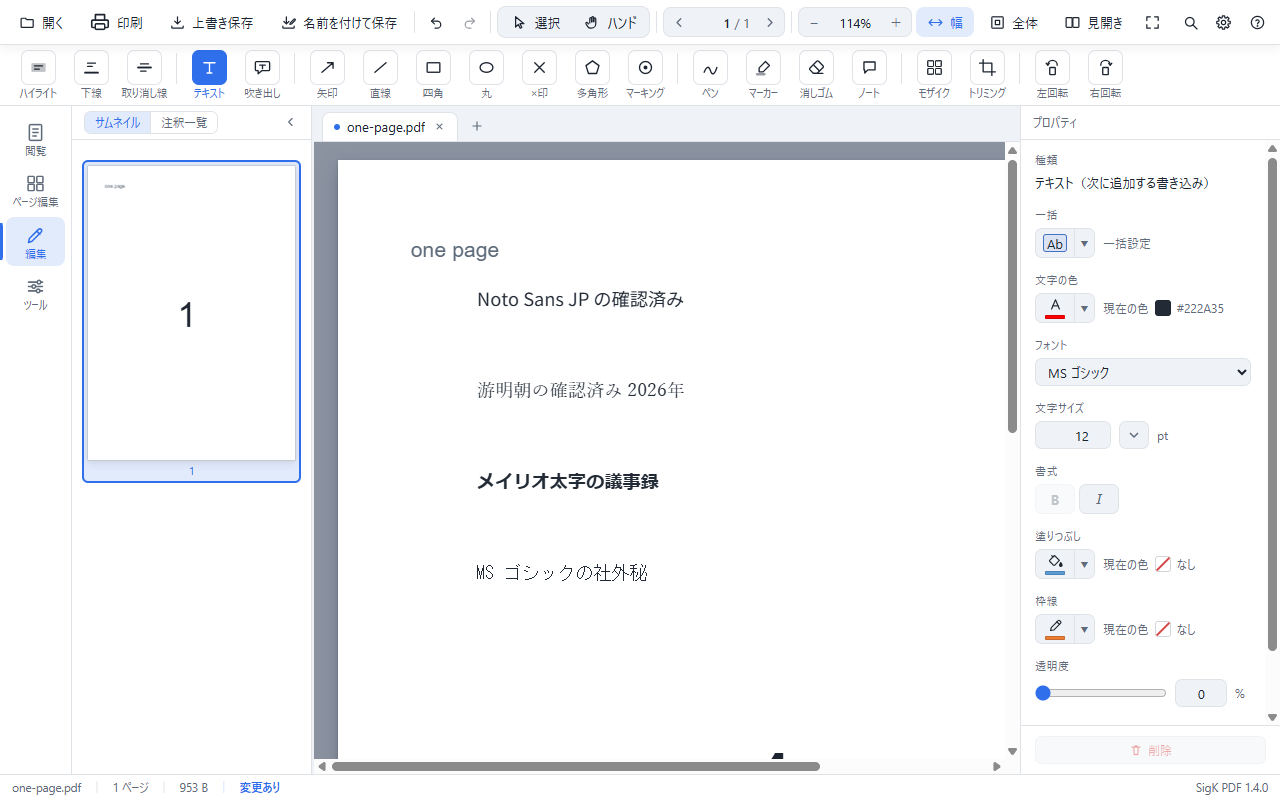
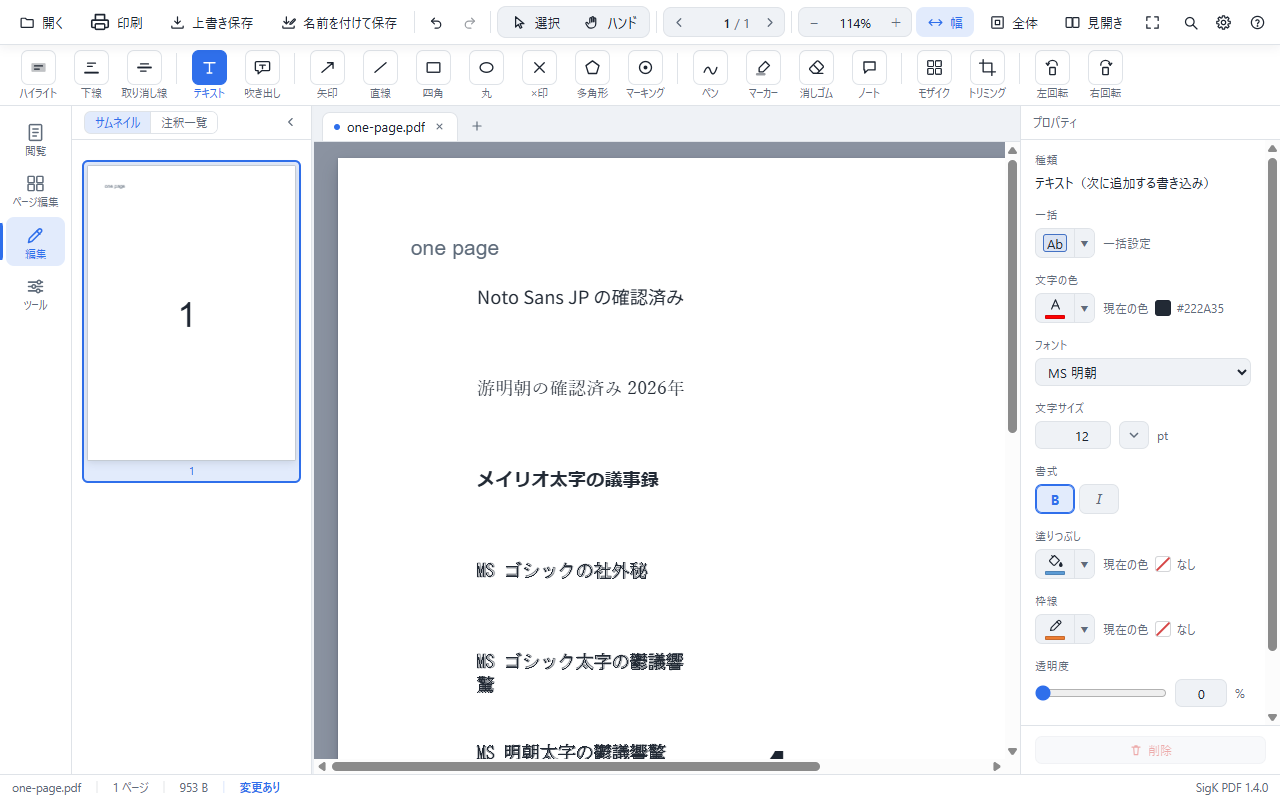
spec-7-11 に質問 FT2・FT3 の回答と擬似太字の線の太さ（字の大きさの 30 分の 1）と理由を書き、画面写真を撮り直す

diff --git a/docs/spec-7-11-view-font.md b/docs/spec-7-11-view-font.md
@@ -48,7 +48,7 @@
 
 質問の下書き（選択肢・推奨案・調べた結果）は `~/.claude/plans/v150-questions-b.md`。
 
-状態（2026-11-27）: ZM3・FS1・RG1・RG2・RG3・FT1 は回答をもらった（確定事項）。FS2 は、統括役が質問せず、FS1 の回答（「「見開き」ボタンの右側にボタンを作る」）で決まったものとして扱った。FT2・FT3 は FT1 の回答の後に作り、回答を待っている（推奨案で仮に実装した。確定事項T5・T6）。
+状態（2026-11-27）: 全問の回答をもらった（確定事項）。FS2 は、統括役が質問せず、FS1 の回答（「「見開き」ボタンの右側にボタンを作る」）で決まったものとして扱った。FT2・FT3 は FT1 の回答の後に作った。
 
 ## 確定事項
 
@@ -96,17 +96,24 @@
 - R5. ページを動かした後に、動かしたページを選んだままにする時（`stripSelection.set`）は、入力しない（ユーザーが選択した時だけ。`stripSelection.onPick`）。
 - R6. 開けなかった帯・名前の無い帯・画像の帯・パスワード付きの帯では何もしない（ツールの対象にできないので、ツールの欄が理由を表示する）。
 
-### 質問 FT1（2026-11-27）と、仮に実装した FT2・FT3
+### 質問 FT1・FT2・FT3（2026-11-27）
 
-ユーザーの回答（統括役を通して。選んだ選択肢名のまま）: FT1「案B Windows フォント使用（推奨）」
+ユーザーの回答（統括役を通して。選んだ選択肢名のまま）: FT1「案B Windows フォント使用（推奨）」、FT2「案A Noto Sans JP 維持（推奨）」、FT3「案B 擬似太字」
 
 - T1. 一覧に並べるフォントは、Noto Sans JP（同梱）と、Windows に入っている游ゴシック・游明朝・メイリオ・MS ゴシック・MS 明朝（一覧の順）。このパソコンに入っていて、埋め込みの決まり（OpenType の fsType）が「編集できる文書にサブセットで埋め込んでよい」フォントだけを並べる（メインの `font-catalog.js`。初めて聞かれた時に 1 回だけ調べる）。
 - T2. プロパティパネルの「文字の色」の下に「フォント」の行（一覧）を追加する。テキスト・吹き出しの書き込みツールと、選択中のテキストで表示する。選んだフォントは、選択中のテキストに当て、次に置くテキスト・吹き出しの値として設定に保存する（太字・文字の色と同じ。Claude の案。質問 FT2 の図の経緯の表に書いた）。
 - T3. 保存は、書体（フォント×標準・太字）ごとにサブセットで埋め込む。.ttc は PostScript 名でフォントを選ぶ。/DA のフォント名（自分で付けたテキストの印）は、Noto Sans JP が今までどおり SigKJP、ほかは SigKYG・SigKYM・SigKMR・SigKMG・SigKMM。/DS のフォント名は Noto Sans JP・Yu Gothic・Yu Mincho・Meiryo・MS Gothic・MS Mincho。
 - T4. ほかのパソコンで付けたテキストのフォントが、このパソコンに無い時は、Noto Sans JP で描き、修正すると Noto Sans JP で保存する（質問 FT1 の案B の説明）。修正しなければ、保存してある外観のまま。
-- T5.（質問 FT2 の推奨案A で仮に実装。回答待ち）初めて使う時のフォントは Noto Sans JP。既定の Noto Sans JP は、書き込みにも設定にも font の欄を持たない（今までの形を変えない）。
-- T6.（質問 FT3 の推奨案A で仮に実装。回答待ち）太字の書体が無い MS ゴシック・MS 明朝では［B］を押せない。選ぶと太字を外し、次に付ける値も太字なしにする。保存の側も、太字の書体が無いフォントの太字は標準の書体で描く。
-- T7. 使い方画面のテキストの節に、フォントの説明を追加した。
+- T5.（FT2）初めて使う時のフォントは Noto Sans JP。既定の Noto Sans JP は、書き込みにも設定にも font の欄を持たない（今までの形を変えない）。
+- T6.（FT3）太字の書体が無い MS ゴシック・MS 明朝でも［B］を押せる。太字は、標準の書体の文字の輪郭に線を追加して太く見せる（擬似太字）。フォントを変えても太字は外さない。統括役の依頼: 図の案B のとおり、保存した PDF も同じ描き方で、画面・印刷・保存で同じ太さに見えること。
+- T7. 擬似太字の線（Claude が決めたこと。統括役の依頼「字の大きさの 30 分の 1 の太さの線を文字の輪郭に追加する方法を基準にする」）:
+  - 太さは字の大きさの **30 分の 1**（12pt なら 0.4pt）。線は輪郭の内と外に半分ずつかかるので、字の線は片側 60 分の 1 ずつ、合わせて 30 分の 1 太くなる。理由: ユーザーが FT3 の図の見本（この太さで描いた MS ゴシック）を見て案B を選んだので、見本と同じ太さにする。spec-4b-4a 事前調査 B で Noto Sans JP の太字を比べた時の検体も、同じ 30 分の 1 だった。
+  - 色は文字の色。角の形は尖り（PDF の既定の 0 j と、限度 10。画面も同じ値を指定する）。
+  - 保存: 外観の BT の中に、線の色（RG）・線の太さ（w）・角の形（0 j）と、塗りと線で描く指定（2 Tr）を書く（`worker/free-text-wrapped.js`）。線の太さは、ほかの数と同じく小数 2 桁に丸める（10pt で 0.33pt）。
+  - 画面: 注釈の層は text の要素の stroke、印刷は canvas の strokeText、入力欄は -webkit-text-stroke で、同じ太さの線を描く。どれも、保存の 2 Tr と同じく輪郭の中心に線を描く。
+  - 字の送り幅は標準の書体のまま（線は送り幅を変えない）。そのため、画面では font-weight を付けない（Chromium の太字の合成は、送り幅と形が保存と違う可能性があるため）。行の折り返しは、標準の書体の幅で決める。
+- T8. 使い方画面のテキストの節に、フォントの説明を追加した（擬似太字の説明を含む）。
+
 
 ## 実測（2026-11-26。質問 FT1 の材料）
 
@@ -160,11 +167,13 @@
 | `1564355` | ③-1 一覧（`renderer/text-fonts.js`・`worker/text-fonts.js`）と、新しい `font-catalog.js`（IPC `fonts:list`・preload の `fontsAPI`）。フォントのフォルダは `SIGK_FONT_DIR` で差し替えられる。`package.json` の `build.files` に `font-catalog.js` を追加した。試験 `test/text-fonts.test.js`・`test/font-catalog.test.js`。試験用の .ttc は、同梱の Noto Sans JP の標準と太字から組み立てる（`test/ttc-fixture.js`） |
 | `299b63e` | ③-2 保存（`worker/font-embed.js`・`op-annotate.js`・`free-text-wrapped.js`・`default-style.js`）。試験 `test/font-embed-system.test.js` |
 | `9d6dfb4`・`f2c4f06` | ③-3 画面の計測と描画（`renderer/free-text-font.js`・`free-text-shape.js`・`free-text-editor-node.js`・`free-text-metrics.js`）、書き込みの font の欄（`free-text-entry.js`）、読み戻し（`imported-entry.js`）。`f2c4f06` は、`shell.css` が text の要素に font-family を指定しているため、g の要素の指定が効かなかった不具合の修正（表示しない起動の撮影で見つけた）。試験 `test/free-text-font-choice.test.js` |
+| `81f1d09` | 質問 FT3「案B」。仮に入れた案A（［B］を押せなくする・太字を外す）を戻し、擬似太字（確定事項T6・T7）を保存・注釈の層・印刷・入力欄に追加した。試験は `test/font-embed-system.test.js`（MS ゴシックの太字の外観に 2 Tr と線）・`test/free-text-font-choice.test.js`（注釈の層の stroke）・`test/text-font-row.test.js`（［B］を押せる） |
 | `c787dc6` | ③-4 「フォント」の行（`index.html`・`annotation-text-rows.js`・`annotation-style-rows.js`）、次に置く書式（`annotate-text-style.js`・`annotation-text-settings.js`）、当て方（`free-text-style.js`・`annotation-style-patch.js`・`annotation-entry.js` の `PATCH_FIELDS`）、使い方画面。試験 `test/text-font-row.test.js` |
 
-ウインドウを表示しない起動で確かめたこと（`SIGK_FONT_DIR` を空のフォルダにして、メインに Windows のフォントのファイルを読ませず、画面の側に使えるフォントを直接渡した）: 「フォント」の行が「文字の色」の下にあり、6 つのフォントが並ぶ。游明朝・メイリオ（太字）・MS ゴシックのテキストが、それぞれのフォントで描かれる。MS ゴシックを選ぶと［B］が灰色になる。
+ウインドウを表示しない起動で確かめたこと（`SIGK_FONT_DIR` を空のフォルダにして、メインに Windows のフォントのファイルを読ませず、画面の側に使えるフォントを直接渡した）: 「フォント」の行が「文字の色」の下にあり、6 つのフォントが並ぶ。游明朝・メイリオ（太字）・MS ゴシックのテキストが、それぞれのフォントで描かれる。MS ゴシック・MS 明朝でも［B］を押せ、太字は線を太くして描かれる（倍率 114% の 12pt で線 0.61px。画面写真 `screenshots/spec-7-11-font-row.png`）。
 
 確かめていないこと:
 
 - Windows のフォントを実際に読んで、使えるかを調べる処理（`font-catalog.js`）と、保存した PDF に Windows のフォントが埋め込まれること（.ttc から選んだフォントのサブセット・ほかのアプリでの表示）。Windows のフォントのファイルはリポジトリの外なので、表示しない起動でもアプリに読ませていない。試験は、Noto Sans JP から組み立てた .ttc で行った。
+- 擬似太字の、画面と保存した PDF（pdf.js で描いた絵）の画素の比べ。保存した PDF を作るには MS ゴシックのファイルを読む必要があるため、行っていない（線の太さ・色・角の形の値が同じことを試験で確かめた）。
 - 入力欄（textarea）の文字の上下の位置。行の高さとベースラインは Noto Sans JP の値のまま（画面の注釈の層と PDF は同じ値なので一致する）なので、ほかのフォントでは、入力中と確定した後で文字の上下の位置がわずかにずれる可能性がある。
